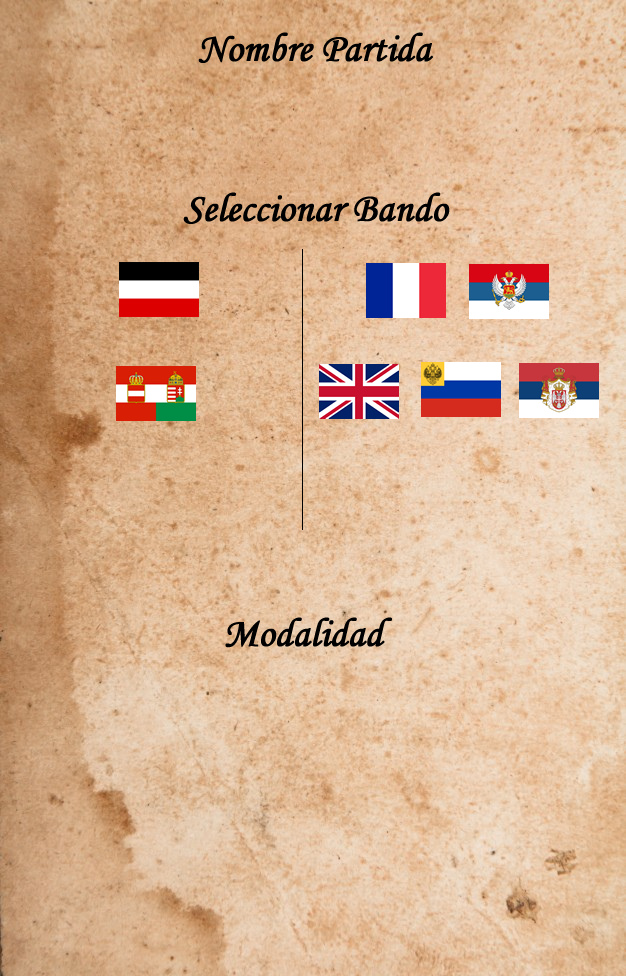
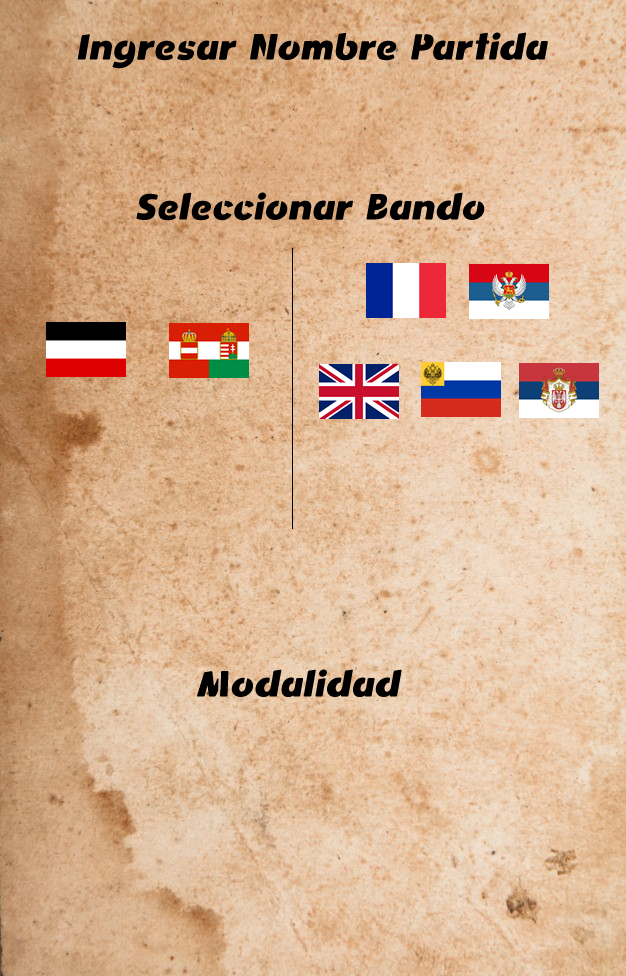
ajustes graficos
se ajusta elegir bando,
se agregan imagenes de vista lateral aviones
se agrega artilleria
se agrega un boton de ejemplo en el juego

diff --git a/ConquerorOfTheSkyClient/Scenes/Play.js b/ConquerorOfTheSkyClient/Scenes/Play.js
@@ -25,19 +25,13 @@ class Play extends Phaser.Scene {
         super({key: 'Play'});
         this.bullets;
     }
-/*
-    preload(){
-        if(config.Partida.tipoPartida = "NuevaPartida")
-            config.Partida.iniciarPartida();
-    }
-    */
     create(){ 
         this.scene.remove('MenuInicial');
         this.scene.remove('ElegirBando');
         //Se agrega imagenes a utilizar y dibujar en pantalla primero (fondo, muros, vista lateral)
         this.add.image(0, 0, "fondoMapa").setOrigin(0);
         this.vistaLateral = this.add.image(45,47,'nubeslateral').setOrigin(0).setScale(1);
-        this.avionVistaLateral = this.add.image(100,140,'albatros').setOrigin(0).setScale(.3);
+        this.avionVistaLateral = this.add.image(100,180,'Nieuport_28C1Lateral').setOrigin(0).setScale(.7);
         this.mapa = this.add.image(433, 46, "mapa_3").setOrigin(0).setScale(1); 
 
         //esto es para mejorar el efecto spotlight de descubrir las areas no visibles
@@ -58,6 +52,7 @@ class Play extends Phaser.Scene {
         //this.mapa.alpha = 0.4;
         this.boton_5 = this.add.image(290, 425, "boton_1").setOrigin(0).setScale(.1).setInteractive(); 
         this.boton_6 = this.add.image(340, 425, "boton_2").setOrigin(0).setScale(.1).setInteractive(); 
+        this.cargarBomba = this.add.image(45, 700, "cargarBomba").setOrigin(0).setScale(.3).setInteractive(); 
 
         this.boton_5.on(Phaser.Input.Events.POINTER_DOWN, () => {
             this.vistaLateral = this.add.image(45,47,'nubeslateral').setOrigin(0).setScale(1);
@@ -104,11 +99,14 @@ class Play extends Phaser.Scene {
         campo.base.posicionY+= inicioMapaY;
 
         //Seteo la base y sus elementos
-        this.add.image(campo.base.posicionX, campo.base.posicionY, 'pisoBase').setScale(.20);
+        this.add.image(campo.base.posicionX + 50, campo.base.posicionY + 50, 'pisoBase').setScale(.25);
         this.add.image(campo.base.posicionX+10, campo.base.posicionY + 10, 'contenedor_2').setScale(.15);
         this.add.image(campo.base.posicionX + 70, campo.base.posicionY + 10, 'depositoCombustible').setScale(.10);
         this.add.image(campo.base.posicionX +40, campo.base.posicionY + 70, 'torre').setScale(.07);
-      
+
+        //aca se agregaria la artilleria
+        this.add.image(campo.base.posicionX +200, campo.base.posicionY + 150, 'artilleria_5').setScale(.07);
+
         //Cargo base para bando 2
         var campoEnemigo = config.Partida.campoEnemigo;
         campoEnemigo.posicionX+= inicioMapaX;
@@ -121,7 +119,7 @@ class Play extends Phaser.Scene {
         campoEnemigo.base.posicionY+= inicioMapaY;
 
         //Seteo la base enemiga y sus elementos
-        this.add.image(campoEnemigo.base.posicionX, campoEnemigo.base.posicionY, 'pisoBase').setScale(.20);
+        this.add.image(campoEnemigo.base.posicionX + 50, campoEnemigo.base.posicionY + 50, 'pisoBase').setScale(.25);
         this.add.image(campoEnemigo.base.posicionX+10, campoEnemigo.base.posicionY + 10, 'contenedor_2').setScale(.15);
         this.add.image(campoEnemigo.base.posicionX + 70, campoEnemigo.base.posicionY + 10, 'depositoCombustible').setScale(.10);
         this.add.image(campoEnemigo.base.posicionX +40, campoEnemigo.base.posicionY + 70, 'torre').setScale(.07);
@@ -812,18 +810,34 @@ class Play extends Phaser.Scene {
             if (avion_1.focus==true){
                 avion_1.altitud='Alta'
                 avion_1.setScale(0.09);
+                this.vistaLateral = this.add.image(45,47,'nubeslateral').setOrigin(0).setScale(1);
+                this.boton_5.depth=100;
+                this.boton_6.depth=100;
+                this.avionVistaLateral.depth=100;
             }
             if (avion_2.focus==true){
                 avion_2.altitud='Alta'
                 avion_2.setScale(0.09);
+                this.vistaLateral = this.add.image(45,47,'nubeslateral').setOrigin(0).setScale(1);
+                this.boton_5.depth=100;
+                this.boton_6.depth=100;
+                this.avionVistaLateral.depth=100;
             }
             if (avion_3.focus==true){
                 avion_3.altitud='Alta'
                 avion_3.setScale(0.09);
+                this.vistaLateral = this.add.image(45,47,'nubeslateral').setOrigin(0).setScale(1);
+                this.boton_5.depth=100;
+                this.boton_6.depth=100;
+                this.avionVistaLateral.depth=100;
             }
             if (avion_4.focus==true){
                 avion_4.altitud='Alta'  
                 avion_4.setScale(0.09); 
+                this.vistaLateral = this.add.image(45,47,'nubeslateral').setOrigin(0).setScale(1);
+                this.boton_5.depth=100;
+                this.boton_6.depth=100;
+                this.avionVistaLateral.depth=100;
             }     
         });
 
@@ -832,18 +846,34 @@ class Play extends Phaser.Scene {
             if (avion_1.focus==true){
                 avion_1.altitud='Baja'
                 avion_1.setScale(0.07);
+                this.vistaLateral = this.add.image(45,47,'vistaLateralBaja').setOrigin(0).setScale(1);
+                this.boton_5.depth=100;
+                this.boton_6.depth=100;
+                this.avionVistaLateral.depth=100;
             }
             if (avion_2.focus==true){
                 avion_2.altitud='Baja'
                 avion_2.setScale(0.07);
+                this.vistaLateral = this.add.image(45,47,'vistaLateralBaja').setOrigin(0).setScale(1);
+                this.boton_5.depth=100;
+                this.boton_6.depth=100;
+                this.avionVistaLateral.depth=100;
             }
             if (avion_3.focus==true){
                 avion_3.altitud='Baja'
                 avion_3.setScale(0.07);
+                this.vistaLateral = this.add.image(45,47,'vistaLateralBaja').setOrigin(0).setScale(1);
+                this.boton_5.depth=100;
+                this.boton_6.depth=100;
+                this.avionVistaLateral.depth=100;
             }
             if (avion_4.focus==true){
                 avion_4.altitud='Baja'
                 avion_4.setScale(0.07);
+                this.vistaLateral = this.add.image(45,47,'vistaLateralBaja').setOrigin(0).setScale(1);
+                this.boton_5.depth=100;
+                this.boton_6.depth=100;
+                this.avionVistaLateral.depth=100;
             }    
         });
 

diff --git a/ConquerorOfTheSkyClient/Scenes/MenuBando.js b/ConquerorOfTheSkyClient/Scenes/MenuBando.js
@@ -1,4 +1,6 @@
 import { config } from '../lib/main.js';
+var ingresoTexto;
+
 
 class MenuBando extends Phaser.Scene
 {
@@ -23,34 +25,56 @@ class MenuBando extends Phaser.Scene
 
     create() 
     {
+        ingresoTexto = false;
+        this.add.image(0,0, 'desenfocar').setOrigin(0);
         this.add.image(650,50, 'seleccioncarac').setOrigin(0);
+        this.textBox = this.add.image(750,140, 'textBox').setOrigin(0).setScale(0.5);
+        this.text = this.add.text(800, 160, 'Click para ingresar nombre', { font: '16px Arial', fill: '#474747' }).setScale(1.5).setInteractive();
+        this.text.on(Phaser.Input.Events.POINTER_DOWN, () => {
+            this.add.tween({
+                targets: this.text,
+                ease: 'Bounce.easeIn',
+                x:810,
+                duration: 100,
+                onComplete: () => {
+                    ingresoTexto = true;
+                    this.text.destroy();
+                }
+            });
 
-    var textEntry = this.add.text(710, 180, '', { font: '32px Courier', fill: '#ffff00' });
+            this.add.tween({
+                targets: [ this.pointsText, this.bestPointsText ],                
+                y: 400,
+                duration: 1000
+            });
+        });
+
+    var textEntry = this.add.text(760, 160, '', { font: '48px Courier', fill: '#474747' });
     
     this.input.keyboard.on('keydown', function (event) {
-
-        if (event.keyCode === 8 && textEntry.text.length > 0)
-        {
-            textEntry.text = textEntry.text.substr(0, textEntry.text.length - 1);
+        if(ingresoTexto == true){
+            if (event.keyCode === 8 && textEntry.text.length > 0)
+            {
+                textEntry.text = textEntry.text.substr(0, textEntry.text.length - 1);
+            }
+            else if (event.keyCode === 32 || (event.keyCode >= 48 && event.keyCode < 90))
+            {
+                textEntry.text += event.key;
+            }
         }
-        else if (event.keyCode === 32 || (event.keyCode >= 48 && event.keyCode < 90))
-        {
-            textEntry.text += event.key;
-        }
-        
     });
     
     //this.add.text(690, 520, 'Potencias Centrales', { font: '18px Arial', fill: '#0095DD' }).setScale(1.5).setInteractive();
-    this.textoPotencias = this.add.text(690, 520, 'Potencias Centrales', { font: '18px Arial', fill: '#0095DD' }).setScale(1.5).setInteractive();
-    this.textoAliados = this.add.text(1050, 520, 'Aliados', { font: '18px Arial', fill: '#0095DD' }).setScale(1.5).setInteractive();
-    var bandoElegido; 
+    this.textoPotencias = this.add.image(600, 520, 'potenciasCentrales').setOrigin(0).setScale(0.5).setInteractive();
+    this.textoAliados = this.add.image(920, 520, 'Aliados').setOrigin(0).setScale(0.5).setInteractive();
+    var bandoElegido ; 
 
     // Cuando hace click en Potencias Centrales
     this.textoPotencias.on(Phaser.Input.Events.POINTER_DOWN, () => {
             this.add.tween({
                 targets: this.textoPotencias,
                 ease: 'Bounce.easeIn',
-                x:1300,
+                x:620,
                 duration: 1000,
                 onComplete: () => {
                     bandoElegido = "Aleman";
@@ -69,7 +93,7 @@ class MenuBando extends Phaser.Scene
             this.add.tween({
                 targets: this.textoAliados,
                 ease: 'Bounce.easeIn',
-                x:1300,
+                x:940,
                 duration: 1000,
                 onComplete: () => {
                     bandoElegido = "Frances";
@@ -82,9 +106,12 @@ class MenuBando extends Phaser.Scene
                 duration: 1000
             });
         });
-
-    this.crearNuevaPartida = this.add.text(820, 900, 'Crear Partida', { font: '18px Arial', fill: '#0095DD' }).setScale(2.3).setInteractive();
+    var alerta = this.add.text(700, 900, '', { font: 'bold 48px Courier', fill: '#080808' });
+    this.crearNuevaPartida = this.add.image(780, 950, 'crearPartida').setOrigin(0).setScale(0.5).setInteractive();
     this.crearNuevaPartida.on(Phaser.Input.Events.POINTER_DOWN, () => {
+        if(bandoElegido == null){
+            alerta.setText('Seleccione un Bando'); 
+        }else{
         //Creo la partida con el bando y el nombre seleccionado
         console.log('Entre iniciando partida en Menu Bando');
         config.Partida.Bando = bandoElegido;
@@ -93,6 +120,7 @@ class MenuBando extends Phaser.Scene
         config.Partida.iniciarPartida();
         //console.log(config.Partida);
         this.scene.launch('confirmarNuevaPartida');
+    }
     });
 
 }

diff --git a/ConquerorOfTheSkyClient/Scenes/MenuInicial.js b/ConquerorOfTheSkyClient/Scenes/MenuInicial.js
@@ -25,15 +25,16 @@ class MenuInicial extends Phaser.Scene {
         //Carga boton de nueva partida y dirije a la escena nueva partida
         this.add.image(0, 0, "fondoMenu").setOrigin(0);
         this.add.image(900, 100, "titulo").setOrigin(0);
+
         //Se carga imagen interactiva de Nueva Partida
         this.nuevaPartida = this.add.image(1050,300,'nuevaPartida'
         ).setOrigin(0).setScale(0.8).setInteractive();
-        
+        //Evento de la imagen Nueva Partida
         this.nuevaPartida.on(Phaser.Input.Events.POINTER_DOWN, () => {
             this.add.tween({
                 targets: this.nuevaPartida,
                 ease: 'Bounce.easeIn',
-                x:1300,
+                x:1070,
                 duration: 1000,
                 onComplete: () => {
                     /*console.log('Entre iniciando partida');

diff --git a/ConquerorOfTheSkyClient/Scenes/Bootloader.js b/ConquerorOfTheSkyClient/Scenes/Bootloader.js
@@ -24,7 +24,12 @@ class Bootloader extends Phaser.Scene {
             'nuevaPartida',
             'buscarPartida',
             'cargarPartida',
+            'crearPartida',
             'confirmarNuevaPartida',
+            'desenfocar',
+            'textBox',
+            'Aliados',
+            'potenciasCentrales',
             'titulo',
             'contenedor',
             'contenedor_2',
@@ -40,12 +45,14 @@ class Bootloader extends Phaser.Scene {
             'pisoBase',
             'depositoCombustible',
             'circuloAvion',
+            'Nieuport_28C1Lateral',
 
 
             'boton_1',
             'boton_2',
             'boton_3',
             'boton_4',
+            'cargarBomba',
             
              'menupartidas',
              'nubeslateral',

diff --git a/ConquerorOfTheSkyClient/Scenes/confirmarNuevaPartida.js b/ConquerorOfTheSkyClient/Scenes/confirmarNuevaPartida.js
@@ -23,7 +23,9 @@ class confirmarNuevaPartida extends Phaser.Scene
 
     create() 
     {   
-    this.crearNuevaPartida = this.add.image(800,700, "confirmarNuevaPartida").setOrigin(0).setScale(0.5).setInteractive(); 
+
+	this.add.image(0,0, 'desenfocar').setOrigin(0);
+    this.crearNuevaPartida = this.add.image(670,500, "confirmarNuevaPartida").setOrigin(0).setScale(0.9).setInteractive(); 
     this.crearNuevaPartida.on(Phaser.Input.Events.POINTER_DOWN, () => {
         this.scene.remove('MenuInicial');
         this.scene.remove('MenuBando');
